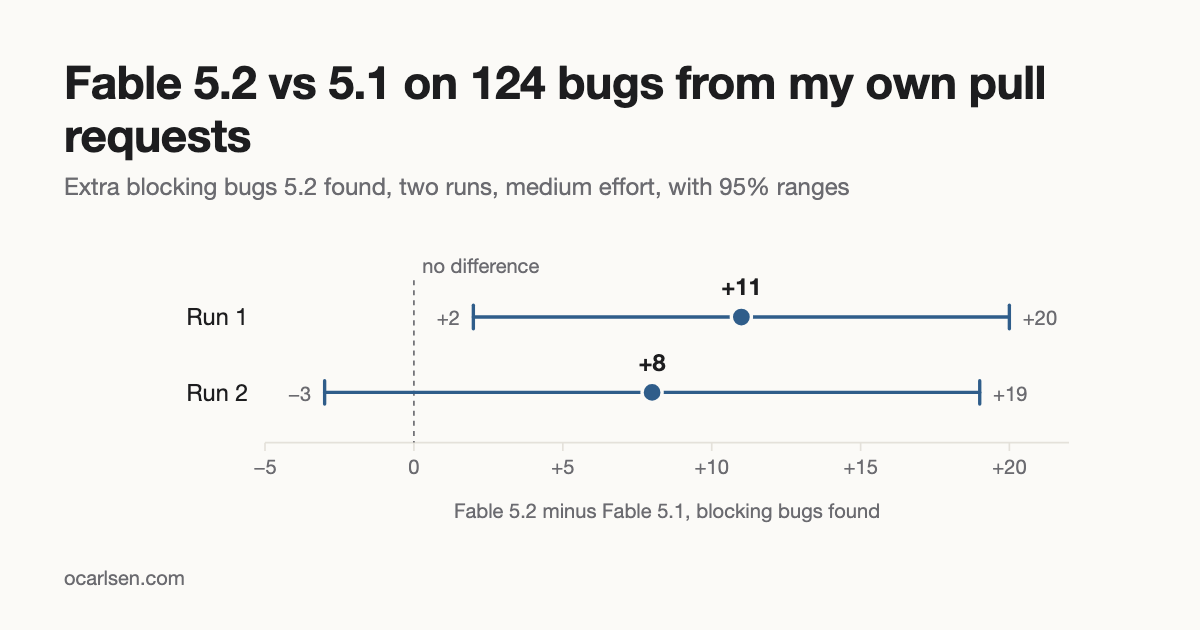
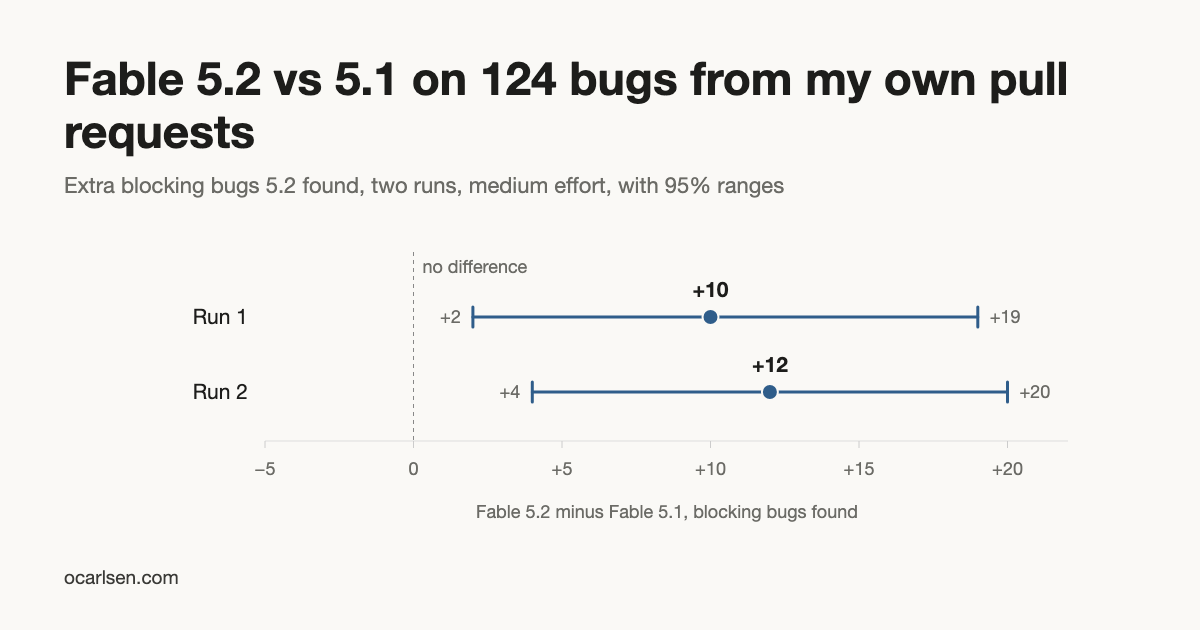
Deploy from profile 7397a9d

diff --git a/fable-52-reviews.html b/fable-52-reviews.html
@@ -73,21 +73,21 @@
 <div class="table-wrap">
 <table class="num">
 <tr><th></th><th>Fable 5.1</th><th>Fable 5.2</th><th>5.2 vs 5.1</th></tr>
-<tr><td>Blocking bugs found, of 124 (run 1 / run 2)</td><td>94 / 97 (77%)</td><td>105 / 105 (85%)</td><td>+11 / +8</td></tr>
-<tr><td>All defects found, of 209</td><td>130 / 132</td><td>151 / 151</td><td>+21 / +19</td></tr>
-<tr><td>Claims the judge marked unsupported, per review</td><td>0.85 / 0.99</td><td>0.37 / 0.39</td><td>&minus;0.48 / &minus;0.60</td></tr>
-<tr><td>Cost per review, batch price</td><td>$0.41</td><td>$0.34</td><td>&minus;$0.07</td></tr>
-<tr><td>Cost per blocking bug found</td><td>$0.35</td><td>$0.27</td><td>&minus;$0.08</td></tr>
-<tr><td>Output tokens per review, thinking included</td><td>about 7,100</td><td>about 7,800</td><td>about +700</td></tr>
+<tr><td>Blocking bugs found, of 124 (run 1 / run 2)</td><td>98 / 98 (79%)</td><td>108 / 110 (88%)</td><td>+10 / +12</td></tr>
+<tr><td>All defects found, of 209</td><td>138 / 134</td><td>155 / 155</td><td>+17 / +21</td></tr>
+<tr><td>Claims the judge marked unsupported, per review</td><td>1.02 / 0.93</td><td>0.40 / 0.37</td><td>&minus;0.62 / &minus;0.56</td></tr>
+<tr><td>Cost per review, batch price</td><td>$0.42</td><td>$0.35</td><td>&minus;$0.07</td></tr>
+<tr><td>Cost per blocking bug found</td><td>$0.35</td><td>$0.26</td><td>&minus;$0.09</td></tr>
+<tr><td>Output tokens per review, thinking included</td><td>about 7,400</td><td>about 7,900</td><td>about +500</td></tr>
 </table>
 </div>
 
-<p>Running each model twice shows how much a score moves on its own: 5.2 found the same number of blocking bugs both times, and 5.1 found three more the second time.</p>
+<p>Running each model twice shows how much a score moves on its own: 5.1 found the same number of blocking bugs both times, and 5.2 found two more the second time.</p>
 
-<p>With only 124 bugs, the gap between the two models has a wide margin of error. To size it, I used a bootstrap: 4,000 pretend versions of the test, built by drawing tickets at random from the real ones. In 95% of them, the range was +2 to +20 in the first run, and &minus;3 to +19 in the second. So the second run's range includes zero: on that run alone, a tie can't be ruled out.</p>
+<p>With only 124 bugs, the gap between the two models has a wide margin of error. To size it, I used a bootstrap: 4,000 pretend versions of the test, built by drawing tickets at random from the real ones. In 95% of them, the range was +2 to +19 in the first run, and +4 to +20 in the second. Neither range includes zero.</p>
 
 <figure class="errorbars">
-<svg viewBox="0 0 640 170" role="img" aria-label="Fable 5.2 minus Fable 5.1, blocking bugs found, with 95% bootstrap ranges. Run 1: +11, range +2 to +20. Run 2: +8, range -3 to +19.">
+<svg viewBox="0 0 640 170" role="img" aria-label="Fable 5.2 minus Fable 5.1, blocking bugs found, with 95% bootstrap ranges. Run 1: +10, range +2 to +19. Run 2: +12, range +4 to +20.">
   <style>
     .errorbars svg { width: 100%; height: auto; display: block; }
     .eb-axis { stroke: var(--rule); stroke-width: 1; }
@@ -108,48 +108,48 @@
   <line x1="564.4" y1="115" x2="564.4" y2="120" class="eb-axis"/><text x="564.4" y="134" text-anchor="middle" class="eb-tick">+20</text>
   <line x1="208.9" y1="18" x2="208.9" y2="115" class="eb-zero"/>
   <text x="213.9" y="14" class="eb-note">no difference</text>
-  <g class="eb-row" tabindex="0"><title>Run 1: 5.2 found +11 blocking bugs vs 5.1 (95% range +2 to +20)</title>
+  <g class="eb-row" tabindex="0"><title>Run 1: 5.2 found +10 blocking bugs vs 5.1 (95% range +2 to +19)</title>
     <rect x="120.0" y="24" width="480.0" height="32" fill="transparent"/>
     <text x="110" y="45" text-anchor="end" class="eb-label">Run 1</text>
-    <line x1="244.4" y1="40" x2="564.4" y2="40" class="eb-whisker"/>
+    <line x1="244.4" y1="40" x2="546.7" y2="40" class="eb-whisker"/>
     <line x1="244.4" y1="33" x2="244.4" y2="47" class="eb-whisker"/>
-    <line x1="564.4" y1="33" x2="564.4" y2="47" class="eb-whisker"/>
-    <circle cx="404.4" cy="40" r="6" class="eb-dot"/>
-    <text x="404.4" y="27" text-anchor="middle" class="eb-value">+11</text>
+    <line x1="546.7" y1="33" x2="546.7" y2="47" class="eb-whisker"/>
+    <circle cx="386.7" cy="40" r="6" class="eb-dot"/>
+    <text x="386.7" y="27" text-anchor="middle" class="eb-value">+10</text>
     <text x="236.4" y="45" text-anchor="end" class="eb-end">+2</text>
-    <text x="572.4" y="45" text-anchor="start" class="eb-end">+20</text>
+    <text x="554.7" y="45" text-anchor="start" class="eb-end">+19</text>
   </g>
-  <g class="eb-row" tabindex="0"><title>Run 2: 5.2 found +8 blocking bugs vs 5.1 (95% range -3 to +19)</title>
+  <g class="eb-row" tabindex="0"><title>Run 2: 5.2 found +12 blocking bugs vs 5.1 (95% range +4 to +20)</title>
     <rect x="120.0" y="69" width="480.0" height="32" fill="transparent"/>
     <text x="110" y="90" text-anchor="end" class="eb-label">Run 2</text>
-    <line x1="155.6" y1="85" x2="546.7" y2="85" class="eb-whisker"/>
-    <line x1="155.6" y1="78" x2="155.6" y2="92" class="eb-whisker"/>
-    <line x1="546.7" y1="78" x2="546.7" y2="92" class="eb-whisker"/>
-    <circle cx="351.1" cy="85" r="6" class="eb-dot"/>
-    <text x="351.1" y="72" text-anchor="middle" class="eb-value">+8</text>
-    <text x="147.6" y="90" text-anchor="end" class="eb-end">&minus;3</text>
-    <text x="554.7" y="90" text-anchor="start" class="eb-end">+19</text>
+    <line x1="280.0" y1="85" x2="564.4" y2="85" class="eb-whisker"/>
+    <line x1="280.0" y1="78" x2="280.0" y2="92" class="eb-whisker"/>
+    <line x1="564.4" y1="78" x2="564.4" y2="92" class="eb-whisker"/>
+    <circle cx="422.2" cy="85" r="6" class="eb-dot"/>
+    <text x="422.2" y="72" text-anchor="middle" class="eb-value">+12</text>
+    <text x="272.0" y="90" text-anchor="end" class="eb-end">+4</text>
+    <text x="572.4" y="90" text-anchor="start" class="eb-end">+20</text>
   </g>
   <text x="360.0" y="160" text-anchor="middle" class="eb-note">Fable 5.2 minus Fable 5.1, blocking bugs found</text>
 </svg>
 <figcaption>Dots are the measured gap; lines are the range that held in 95% of 4,000 resampled versions of the test.</figcaption>
 </figure>
 
-<p>I read a sample of the reviews where the two models disagreed. 5.2's real results are, if anything, a little stronger than the numbers above: twice the judge marked a bug as missed that 5.2's review had in fact named, and the two judge replies that failed to parse were both on 5.2's reviews.</p>
+<p>I read a sample of the judge's calls, including every kind of change from the first version of this test. I found no wrong hit or miss. The judge was a little harsh on 5.2's unsupported claims, though: it counts a hedged "I couldn't confirm X" as a claim, and 5.2 writes that way more often than 5.1.</p>
 
 <p>The table also shows 5.2 was cheaper per review. Here is where that comes from. Each review read the same input on both models, so the difference is in what they wrote back and what each token costs:</p>
 
 <div class="table-wrap">
 <table class="num">
 <tr><th>Per review, average of both runs</th><th>Fable 5.1</th><th>Fable 5.2</th><th>Result</th></tr>
-<tr><td>Input tokens</td><td>46,458</td><td>46,458</td><td>Same</td></tr>
-<tr><td>Output tokens, thinking included</td><td>about 7,100</td><td>about 7,800</td><td>5.2 writes about 9% more</td></tr>
+<tr><td>Input tokens</td><td>46,852</td><td>46,852</td><td>Same</td></tr>
+<tr><td>Output tokens, thinking included</td><td>about 7,400</td><td>about 7,900</td><td>5.2 writes about 7% more</td></tr>
 <tr><td>List price per million tokens, in / out</td><td>$10 / $50</td><td>$8 / $40</td><td>5.2 is 20% lower</td></tr>
-<tr><td>Cost per review, batch price</td><td>$0.41</td><td>$0.34</td><td>5.2 is 17% cheaper</td></tr>
+<tr><td>Cost per review, batch price</td><td>$0.42</td><td>$0.35</td><td>5.2 is 17% cheaper</td></tr>
 </table>
 </div>
 
-<p>Input is a little over half of the bill, because every review reads about 46,000 tokens of diff and files, and the lower price applies to all of it. That is why 9% more output still came out cheaper. The whole run, both models twice plus the judge, cost about $158 at batch price.</p>
+<p>Input is a little over half of the bill, because every review reads about 46,000 tokens of diff and files, and the lower price applies to all of it. That is why 7% more output still came out cheaper. The whole run, both models twice plus the judge, cost about $160 at batch price.</p>
 
 <p>The lower cost depends on the effort setting, though. At its default effort (high), on the earlier twelve-item run, 5.2 wrote about 70% more than 5.1. The break-even here is about 60% more, so at its default effort 5.2 would likely cost more per review. (I didn't measure whether that extra thinking finds more bugs.)</p>
 
@@ -163,6 +163,8 @@
 </ul>
 
 <p>It was enough for my own reviews, so I moved the pin with the same setting: <code>ANTHROPIC_DEFAULT_FABLE_MODEL=claude-fable-5-2</code>. I also kept <code>CLAUDE_CODE_SUBAGENT_EFFORT=medium</code>, so my reviews run at the effort I measured and not at 5.2's default (high).</p>
+
+<p><em>A previous version of this article used a suite in which my suite-building script attached the wrong ticket to 23 of the 82 reviews and none to 14. The numbers above are from two new runs on the corrected suite, on November 13. 5.2 still found 10 to 12 more blocking bugs than 5.1.</em></p>
     <p class="cta"><a href="https://www.linkedin.com/in/ocarlsen">Get in touch on LinkedIn</a></p>
   <p class="written">How this was written: Claude drafted from my notes; I edited the draft and checked every claim against the code and logs.</p>
   <footer>&copy; 2026 Owen Carlsen</footer>
